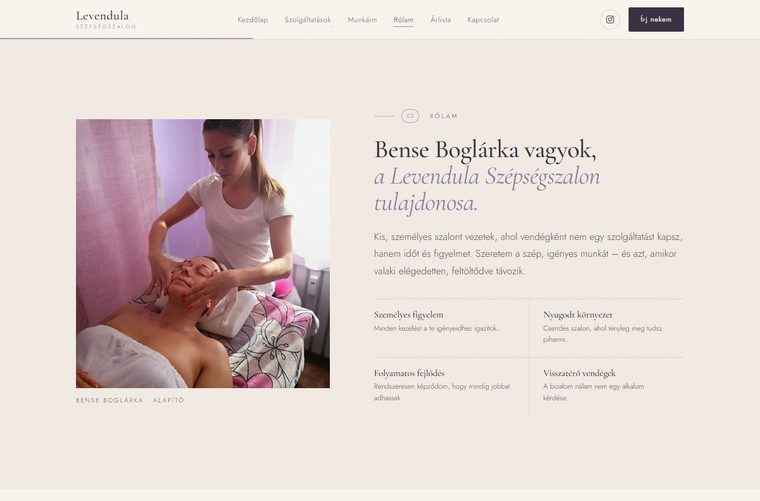
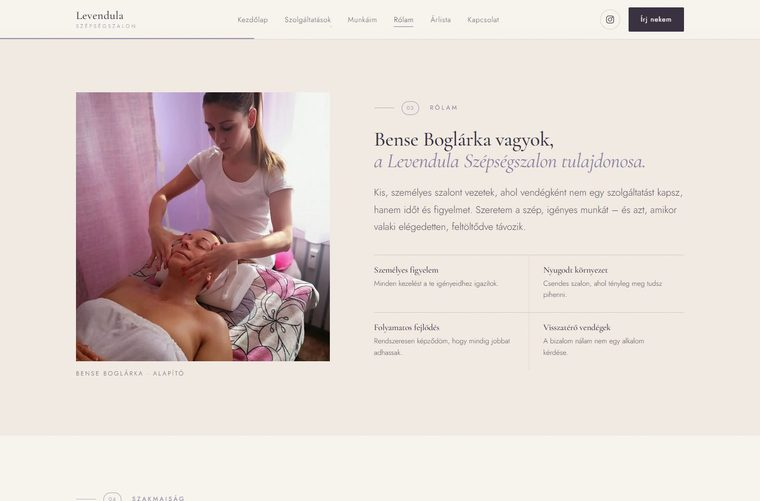
Léptékcsökkentés: visszafogottabb tipográfia és szekcióritmus
- h1 max 5.65rem → 4.35rem, h2 max 4.05rem → 3.1rem, szekciónkénti címek arányosan kisebbek
- Szolgáltatásnevek, mobil menü, bizonyítvány-feliratok, kapcsolat-értékek, láblécmárka kisebbre véve
- Ghost "Levendula" felirat 15rem → 10.5rem, szekciófüggőleges padding 140 → 108px
- Újrafotózott _shots galéria (16 keret) az új arányokkal

🤖 Generated with Codebuff

diff --git a/styles.css b/styles.css
@@ -68,7 +68,7 @@ body::after{
 .section-head{
   display:grid; grid-template-columns:minmax(0,1.2fr) minmax(0,.8fr);
   column-gap:clamp(28px,5vw,80px); align-items:end;
-  margin-bottom:clamp(38px,5.5vw,72px);
+  margin-bottom:clamp(30px,4vw,54px);
 }
 .section-head .eyebrow{grid-column:1/-1}
 .section-head h2{grid-column:1}
@@ -89,8 +89,8 @@ body::after{
   opacity:.72; margin-right:6px;
 }
 
-h1{font-size:clamp(2.8rem, 6.9vw, 5.65rem); line-height:1.02; letter-spacing:-.018em}
-h2{font-size:clamp(2.2rem, 4.9vw, 4.05rem); line-height:1.04; letter-spacing:-.016em}
+h1{font-size:clamp(2.25rem, 5.2vw, 4.35rem); line-height:1.05; letter-spacing:-.014em}
+h2{font-size:clamp(1.8rem, 3.7vw, 3.1rem); line-height:1.09; letter-spacing:-.012em}
 h1 em,h2 em{font-style:italic; font-weight:400; color:var(--lav-deep)}
 .uvled h1 em,.uvled h2 em,.contact h2 em{color:var(--lav)}
 .body-lg{font-size:clamp(1.02rem,1.35vw,1.16rem); line-height:1.75; color:var(--plum-soft); max-width:56ch}
@@ -164,7 +164,7 @@ h1 em,h2 em{font-style:italic; font-weight:400; color:var(--lav-deep)}
   height:100%; display:flex; align-items:center; justify-content:space-between; gap:24px;
 }
 .brand{display:flex; flex-direction:column; line-height:1}
-.brand-name{font-family:var(--serif); font-size:1.5rem; font-weight:500; letter-spacing:.02em}
+.brand-name{font-family:var(--serif); font-size:1.35rem; font-weight:500; letter-spacing:.02em}
 .brand-sub{font-size:.6rem; letter-spacing:.34em; text-transform:uppercase; color:var(--lav-deep); margin-top:5px}
 
 .main-nav ul{display:flex; gap:clamp(16px,2.2vw,32px)}
@@ -213,7 +213,7 @@ body.menu-open .mobile-menu{opacity:1; visibility:visible; pointer-events:auto; 
 .mobile-menu li{border-bottom:1px solid var(--line-soft)}
 .mobile-menu li a{
   display:block; padding:16px 0;
-  font-family:var(--serif); font-size:2rem; font-weight:500;
+  font-family:var(--serif); font-size:1.6rem; font-weight:500;
 }
 .mobile-menu li a em{font-style:italic; color:var(--lav-deep)}
 .mobile-menu-foot{display:flex; flex-direction:column; gap:8px; margin-top:32px; font-size:.95rem; color:var(--plum-soft)}
@@ -270,7 +270,7 @@ body.menu-open .mobile-menu{opacity:1; visibility:visible; pointer-events:auto; 
 .trust-item{padding:26px clamp(14px,2vw,28px) 34px; border-right:1px solid var(--line-soft)}
 .trust-item:first-child{padding-left:0}
 .trust-item:last-child{border-right:none}
-.trust-item h3{font-size:1.28rem; margin-bottom:6px}
+.trust-item h3{font-size:1.14rem; margin-bottom:6px}
 .trust-item p{font-size:.86rem; line-height:1.55; color:var(--plum-soft)}
 
 /* services marquee band */
@@ -290,7 +290,7 @@ body.menu-open .mobile-menu{opacity:1; visibility:visible; pointer-events:auto; 
 /* ============================================================
    FEATURED EYELASH
    ============================================================ */
-.lashes{background:var(--lav-soft); padding:clamp(72px,10vw,140px) 0; margin-top:clamp(56px,8vw,110px)}
+.lashes{background:var(--lav-soft); padding:clamp(56px,7.5vw,108px) 0; margin-top:clamp(56px,8vw,110px)}
 .lashes-grid{
   display:grid; grid-template-columns:1.05fr .95fr;
   gap:clamp(36px,6vw,80px); align-items:center;
@@ -322,7 +322,7 @@ body.menu-open .mobile-menu{opacity:1; visibility:visible; pointer-events:auto; 
 /* ============================================================
    UV-LED
    ============================================================ */
-.uvled{background:var(--char); color:var(--ivory); padding:clamp(72px,10vw,140px) 0; position:relative; overflow:hidden}
+.uvled{background:var(--char); color:var(--ivory); padding:clamp(56px,7.5vw,108px) 0; position:relative; overflow:hidden}
 .uvled::before{
   content:""; position:absolute; top:-30%; right:-10%;
   width:52vw; height:52vw; max-width:680px; max-height:680px;
@@ -338,7 +338,7 @@ body.menu-open .mobile-menu{opacity:1; visibility:visible; pointer-events:auto; 
   padding:7px 18px; border:1px solid rgba(201,188,216,.5); border-radius:100px;
   font-size:.7rem; letter-spacing:.3em; text-transform:uppercase; color:var(--lav);
 }
-.uvled h2{font-size:clamp(2.3rem,4.8vw,3.9rem); margin-bottom:26px}
+.uvled h2{font-size:clamp(1.85rem,3.6vw,2.9rem); margin-bottom:24px}
 .uvled .body-lg{color:rgba(248,244,238,.78); margin-bottom:34px}
 .uvled-media{
   position:relative;
@@ -355,7 +355,7 @@ body.menu-open .mobile-menu{opacity:1; visibility:visible; pointer-events:auto; 
 /* ============================================================
    SERVICES INDEX
    ============================================================ */
-.services{padding:clamp(72px,10vw,140px) 0; position:relative}
+.services{padding:clamp(56px,7.5vw,108px) 0; position:relative}
 .service-index{border-top:1px solid var(--line)}
 .service-row{
   display:grid;
@@ -368,7 +368,7 @@ body.menu-open .mobile-menu{opacity:1; visibility:visible; pointer-events:auto; 
 .service-row:hover{background:rgba(236,230,240,.55)}
 .srv-num{font-family:var(--serif); font-style:italic; font-size:1.06rem; letter-spacing:.04em; color:var(--lav-deep)}
 .srv-name{
-  font-family:var(--serif); font-size:clamp(1.55rem,2.9vw,2.45rem); font-weight:500;
+  font-family:var(--serif); font-size:clamp(1.3rem,2.2vw,1.85rem); font-weight:500;
   transition:transform .45s var(--ease), color .3s;
 }
 .service-row:hover .srv-name{transform:translateX(10px); color:var(--lav-deep)}
@@ -394,7 +394,7 @@ body.menu-open .mobile-menu{opacity:1; visibility:visible; pointer-events:auto; 
 /* ============================================================
    ABOUT
    ============================================================ */
-.about{background:var(--ivory-2); padding:clamp(72px,10vw,140px) 0}
+.about{background:var(--ivory-2); padding:clamp(56px,7.5vw,108px) 0}
 .about-grid{
   display:grid; grid-template-columns:.9fr 1.1fr;
   gap:clamp(36px,6vw,84px); align-items:center;
@@ -404,18 +404,18 @@ body.menu-open .mobile-menu{opacity:1; visibility:visible; pointer-events:auto; 
   margin-top:14px; font-size:.72rem; letter-spacing:.22em;
   text-transform:uppercase; color:var(--plum-soft);
 }
-.about-text h2{font-size:clamp(1.9rem,3.6vw,3rem); margin-bottom:24px}
+.about-text h2{font-size:clamp(1.65rem,2.9vw,2.4rem); margin-bottom:22px}
 .about-text .body-lg{margin-bottom:36px}
 .about-points{display:grid; grid-template-columns:1fr 1fr; gap:0}
 .about-points > div{padding:20px 26px 22px 0; border-top:1px solid var(--line)}
 .about-points > div:nth-child(even){padding-left:26px; border-left:1px solid var(--line-soft)}
-.about-points h4{font-size:1.12rem; margin-bottom:5px}
+.about-points h4{font-size:1.04rem; margin-bottom:5px}
 .about-points p{font-size:.85rem; line-height:1.6; color:var(--plum-soft)}
 
 /* ============================================================
    QUALIFICATIONS
    ============================================================ */
-.quals{padding:clamp(72px,10vw,140px) 0}
+.quals{padding:clamp(56px,7.5vw,108px) 0}
 .cert-strip{
   display:grid; grid-template-columns:repeat(6,1fr);
   gap:clamp(12px,1.6vw,22px); align-items:start;
@@ -444,7 +444,7 @@ body.menu-open .mobile-menu{opacity:1; visibility:visible; pointer-events:auto; 
 /* ============================================================
    WORK / GALLERY
    ============================================================ */
-.work{background:var(--ivory-2); padding:clamp(72px,10vw,140px) 0}
+.work{background:var(--ivory-2); padding:clamp(56px,7.5vw,108px) 0}
 .gallery{
   display:grid; grid-template-columns:repeat(4,1fr);
   grid-auto-rows:clamp(170px,17vw,232px);
@@ -469,7 +469,7 @@ body.menu-open .mobile-menu{opacity:1; visibility:visible; pointer-events:auto; 
 /* ============================================================
    PRICE LIST
    ============================================================ */
-.prices{padding:clamp(72px,10vw,140px) 0}
+.prices{padding:clamp(56px,7.5vw,108px) 0}
 .price-grid{
   display:grid; grid-template-columns:1fr 1fr;
   gap:clamp(34px,4.5vw,64px) clamp(40px,6vw,96px);
@@ -481,7 +481,7 @@ body.menu-open .mobile-menu{opacity:1; visibility:visible; pointer-events:auto; 
   box-shadow:0 18px 44px rgba(42,36,49,.05);
 }
 .price-block h3{
-  font-size:1.5rem; margin-bottom:16px; padding-bottom:12px;
+  font-size:1.3rem; margin-bottom:14px; padding-bottom:11px;
   border-bottom:1px solid var(--plum);
 }
 .price-block ul li{
@@ -520,7 +520,7 @@ body.menu-open .mobile-menu{opacity:1; visibility:visible; pointer-events:auto; 
   padding:clamp(30px,3.2vw,46px);
   align-self:start;
 }
-.price-cta h3{font-size:1.5rem; margin-bottom:12px; border:none; padding:0; color:var(--ivory)}
+.price-cta h3{font-size:1.3rem; margin-bottom:12px; border:none; padding:0; color:var(--ivory)}
 .price-cta p{font-size:.94rem; color:rgba(248,244,238,.72); margin-bottom:24px; max-width:40ch}
 .price-cta .btn-solid{
   background-color:var(--ivory); color:var(--plum);
@@ -531,7 +531,7 @@ body.menu-open .mobile-menu{opacity:1; visibility:visible; pointer-events:auto; 
 /* ============================================================
    GIFT CARD
    ============================================================ */
-.gift{background:var(--lav-soft); padding:clamp(72px,10vw,140px) 0}
+.gift{background:var(--lav-soft); padding:clamp(56px,7.5vw,108px) 0}
 .gift-grid{
   display:grid; grid-template-columns:1.05fr .95fr;
   gap:clamp(36px,6vw,84px); align-items:center;
@@ -551,7 +551,7 @@ body.menu-open .mobile-menu{opacity:1; visibility:visible; pointer-events:auto; 
 /* ============================================================
    INSTAGRAM
    ============================================================ */
-.instagram{padding:clamp(72px,10vw,140px) 0}
+.instagram{padding:clamp(56px,7.5vw,108px) 0}
 .ig-head{margin-bottom:clamp(30px,4vw,50px); position:relative}
 .ig-handle{
   display:inline-block; margin-top:20px;
@@ -578,13 +578,13 @@ body.menu-open .mobile-menu{opacity:1; visibility:visible; pointer-events:auto; 
    ============================================================ */
 .contact{
   background:var(--char); color:var(--ivory);
-  padding:clamp(76px,10vw,150px) 0 clamp(96px,12vw,180px);
+  padding:clamp(60px,8vw,116px) 0 clamp(74px,9vw,136px);
   position:relative; overflow:hidden;
 }
 .contact::after{
   content:"Levendula"; position:absolute; left:0; right:0; bottom:-.16em;
   font-family:var(--serif); font-style:italic; font-weight:400;
-  font-size:clamp(5rem,17vw,15rem); line-height:1;
+  font-size:clamp(3.5rem,12vw,10.5rem); line-height:1;
   text-align:center; color:rgba(248,244,238,.05);
   pointer-events:none;
 }
@@ -593,7 +593,7 @@ body.menu-open .mobile-menu{opacity:1; visibility:visible; pointer-events:auto; 
   gap:clamp(40px,6vw,90px); align-items:start;
   position:relative; z-index:1;
 }
-.contact h2{font-size:clamp(2.6rem,5.4vw,4.4rem); margin-bottom:22px}
+.contact h2{font-size:clamp(2.05rem,4.1vw,3.3rem); margin-bottom:20px}
 .contact .body-lg{color:rgba(248,244,238,.75)}
 .contact-cta{display:flex; flex-wrap:wrap; gap:14px; margin-top:34px}
 .contact-details{border-top:1px solid var(--line-light)}
@@ -603,7 +603,7 @@ body.menu-open .mobile-menu{opacity:1; visibility:visible; pointer-events:auto; 
   align-items:baseline;
 }
 .cd-label{font-size:.7rem; letter-spacing:.26em; text-transform:uppercase; color:var(--lav)}
-.cd-value{font-family:var(--serif); font-size:1.35rem; font-weight:500; line-height:1.42}
+.cd-value{font-family:var(--serif); font-size:1.18rem; font-weight:500; line-height:1.45}
 .cd-value small{font-family:var(--sans); font-size:.8rem; font-weight:300; color:rgba(248,244,238,.6)}
 .cd-value a{border-bottom:1px solid rgba(201,188,216,.4); transition:border-color .3s, color .3s}
 .cd-value a:hover{color:var(--lav); border-color:var(--lav)}
@@ -614,7 +614,7 @@ body.menu-open .mobile-menu{opacity:1; visibility:visible; pointer-events:auto; 
   gap:18px; padding-top:34px; padding-bottom:8px;
 }
 .footer-brand{display:flex; flex-direction:column; gap:4px}
-.footer-brand .brand-name{color:var(--ivory); font-size:1.3rem}
+.footer-brand .brand-name{color:var(--ivory); font-size:1.15rem}
 .footer-brand .brand-sub{color:rgba(248,244,238,.55); letter-spacing:.2em}
 .footer-addr{font-size:.84rem; letter-spacing:.03em}
 .footer-links{display:flex; gap:22px; font-size:.84rem; letter-spacing:.05em}
@@ -641,7 +641,7 @@ body.menu-open .mobile-menu{opacity:1; visibility:visible; pointer-events:auto; 
 
   .header-cta{display:none}
   .ig-link{width:44px; height:44px}
-  .brand-name{font-size:1.3rem}
+  .brand-name{font-size:1.15rem}
 
   /* HERO: text → image → intro (image early, one primary CTA) */
   .hero-grid{
@@ -664,7 +664,7 @@ body.menu-open .mobile-menu{opacity:1; visibility:visible; pointer-events:auto; 
   .trust-item:first-child{padding-left:16px}
   .trust-item:nth-child(2n){border-right:none}
   .trust-item:nth-child(-n+2){border-top:none}
-  .trust-item h3{font-size:1.12rem}
+  .trust-item h3{font-size:1.02rem}
 
   .lashes-grid,.uvled-inner,.about-grid,.gift-grid,.contact-grid{
     grid-template-columns:1fr;
@@ -708,7 +708,7 @@ body.menu-open .mobile-menu{opacity:1; visibility:visible; pointer-events:auto; 
 }
 
 @media (max-width:560px){
-  h1{font-size:clamp(2.4rem,9vw,3rem)}
+  h1{font-size:clamp(2rem,7.4vw,2.5rem)}
   .cert-strip{
     display:flex; overflow-x:auto; padding-bottom:14px;
     scroll-snap-type:x mandatory; -webkit-overflow-scrolling:touch;
